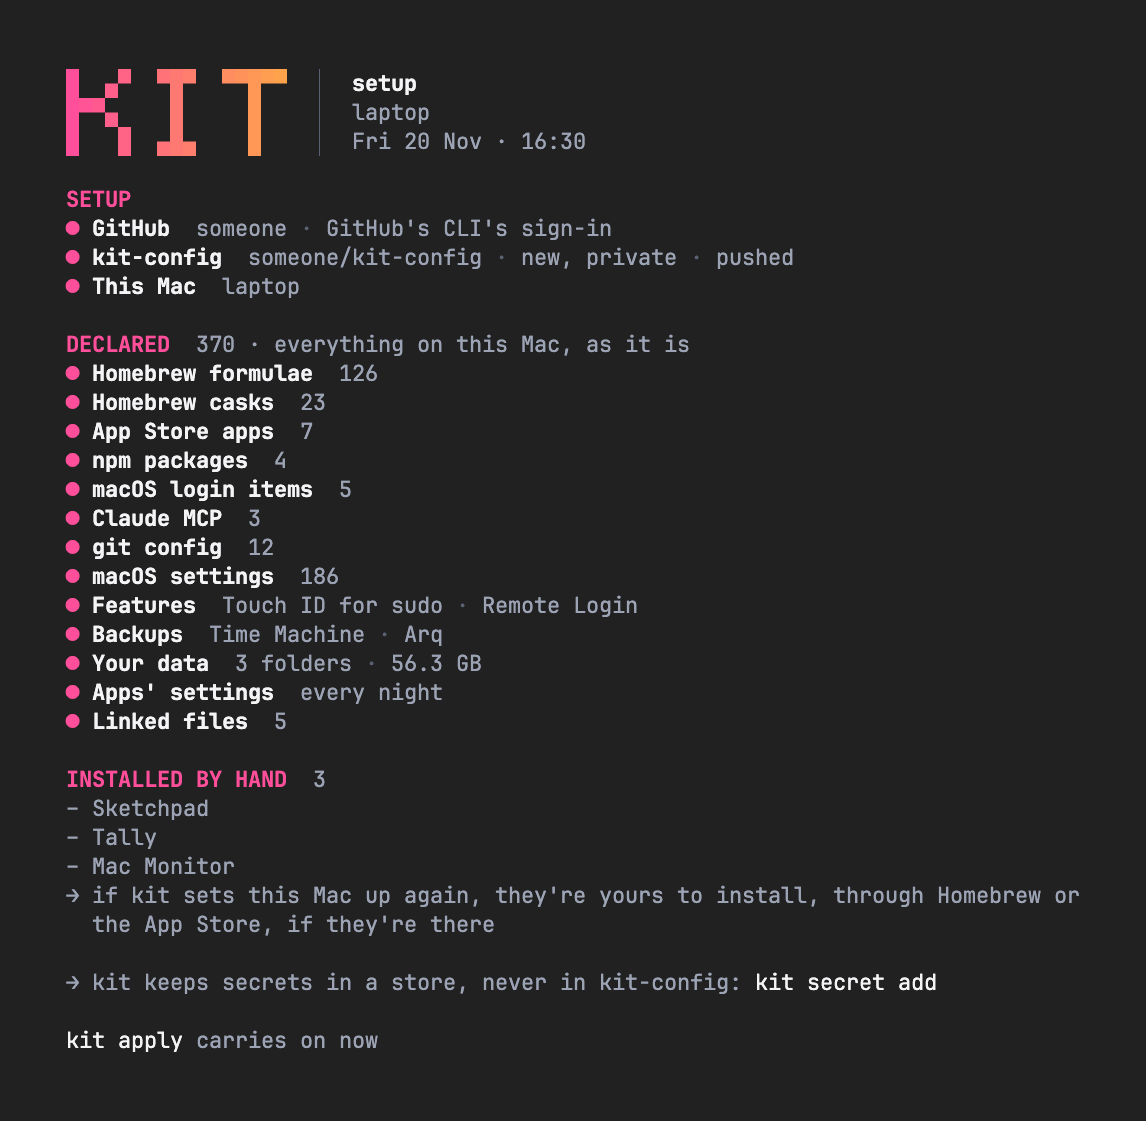
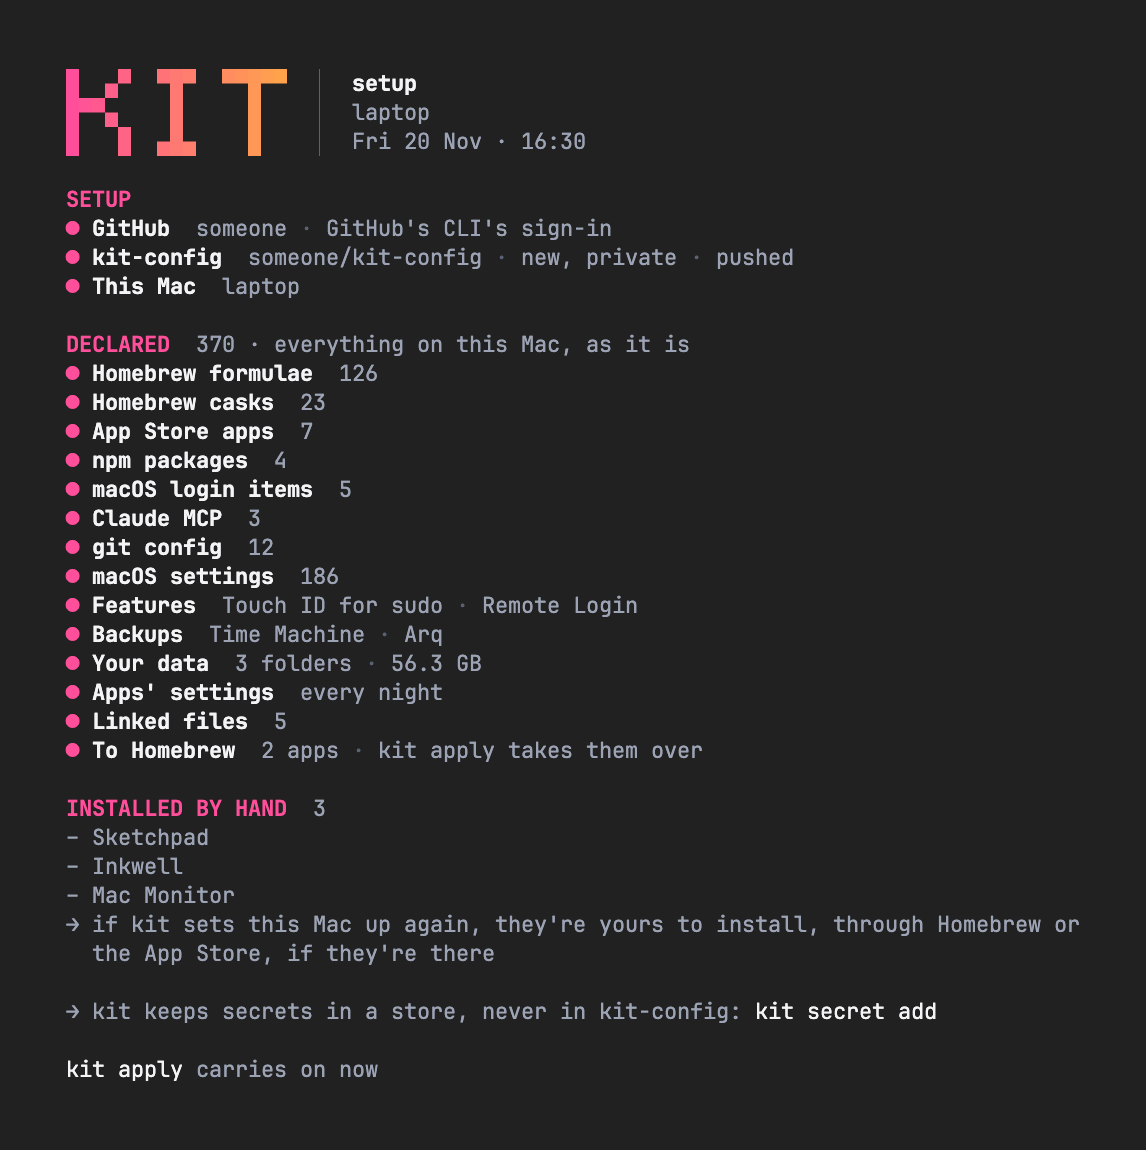
The setup docs and kit agent's guide say which apps Homebrew takes over, and the still shows it
Your first kit-config gains To Homebrew: its row in the questions, --adopt
and --no-adopt, and the apps installed by hand listed being those left so.
The still is drawn again, To Homebrew's row in it. The guide's setup
flags gain --adopt <cask> and --no-adopt, what's offered, and the adopt
and by-hand steps' words; the design's setup synopsis and its question.

diff --git a/docs/first-config.md b/docs/first-config.md
@@ -15,7 +15,7 @@ kit setup
 
 `kit setup` signs you in to GitHub and asks a few questions. It ends on what it declared:
 
-<img src="../art/first-config-done.webp" alt="kit setup's end on a Mac in use: GitHub, kit-config and this Mac done, 370 things declared by part, three apps installed by hand, a note on secrets, and kit apply carrying on" width="573">
+<img src="../art/first-config-done.webp" alt="kit setup's end on a Mac in use: GitHub, kit-config and this Mac done, 370 things declared by part, two apps for Homebrew to take over, three left installed by hand, a note on secrets, and kit apply carrying on" width="573">
 
 On a blank Mac, use the one-line install instead: see [A new Mac from one line](new-mac.md). A
 Mac with a kit-config already is refused, because kit looks after it.
@@ -31,6 +31,7 @@ Each question comes with a suggested answer, so enter takes it. Each has a flag 
 | Your data | Your own folders | `--restore`, `--no-restore` |
 | Apps' settings | Save every night | `--prefs`, `--no-prefs` |
 | Linked files | Every one found | `--link`, `--no-link` |
+| To Homebrew | Every app offered | `--adopt`, `--no-adopt` |
 | What to install (joining) | Install with the rest | `--apply`, `--no-apply` |
 
 - **Your data** lists the folders in your home folder, with their sizes. A new Mac copies the
@@ -39,6 +40,8 @@ Each question comes with a suggested answer, so enter takes it. Each has a flag 
   [Apps' settings](apps-settings.md).
 - **Linked files** lists files such as `~/.zshrc` and `~/.ssh/config`. Each one you keep moves
   into kit-config and is linked back.
+- **To Homebrew** lists apps you installed by hand that a cask installs. Then `kit apply` has
+  Homebrew take over each one you keep. kit leaves the rest, and won't ask again.
 
 ## What happens
 
@@ -48,14 +51,14 @@ file:
 - **Everything installed and not yet declared,** of each kind whose program is here, such as
   Homebrew casks, login items and MCP servers.
 - **The folders those programs need on kit's PATH,** such as `~/.local/bin` for Claude Code.
-  kit adds each to this Mac's `[paths]`, as `kit path add` does, if your shell finds the program
-  there and kit's PATH doesn't.
+  kit adds each to this Mac's `[paths]` if your shell finds the program there and kit's PATH
+  doesn't.
 - **The macOS settings set now,** leaving out the state macOS keeps for itself, and git's global
   settings.
 - **The features on and the backup tools set up,** such as Touch ID for sudo and Time Machine.
 - **Your answers go beside it.** kit commits all of it as one, and pushes it.
-- **Apps installed by hand are listed, never managed.** If kit sets this Mac up again, you
-  install them yourself.
+- **Apps left installed by hand are listed.** They're yours to install if kit sets this Mac up
+  again.
 - **Secrets aren't looked for.** kit keeps a secret in a store, never in kit-config: declare each
   one with `kit secret add`. See [Secrets from 1Password](secrets.md).
 
@@ -94,10 +97,11 @@ or stop to look first with `kit status`.
 | `--restore <path>` | A folder a new Mac brings back |
 | `--prefs` | Save apps' settings every night |
 | `--link <path>` | A file kit-config keeps, linked back |
+| `--adopt <cask>` | A cask that takes over its app |
 | `--no-apply` | Stop after the commit, to look first |
 
-`--restore` and `--link` take one path each time. `--restore`, `--prefs` and `--link` each
-have a `--no-` flag that answers no. Without a terminal, kit asks nothing: a question its flag
+`--restore`, `--link` and `--adopt` take one each time. Each of those and `--prefs` has a
+`--no-` flag that answers no. Without a terminal, kit asks nothing: a question its flag
 doesn't answer stops setup, naming the flag.
 
 ## Related

diff --git a/docs/design.md b/docs/design.md
@@ -611,7 +611,7 @@ kit machine [<name>]         This Mac's name: shown, or set (one of kit.toml's M
 kit machine add <name>       Add a Mac to kit-config, a copy of another's or empty   [--from] [--description]
 kit terminal [<name>]        The terminal a new Mac's boot hands over to: shown, or set in kit.toml   [--none]
 kit nightly at [<time>]      When the nightly run falls due: shown, or set in kit.toml (nightly_at)
-kit setup                    Set up a Mac in use: kit-config made or joined, the Mac declared as it is, then kit apply   [--create|--join] [--mac] [--from] [--restore|--no-restore] [--prefs|--no-prefs] [--link|--no-link] [--apply|--no-apply]
+kit setup                    Set up a Mac in use: kit-config made or joined, the Mac declared as it is, then kit apply   [--create|--join] [--mac] [--from] [--restore|--no-restore] [--prefs|--no-prefs] [--link|--no-link] [--adopt|--no-adopt] [--apply|--no-apply]
 
 What kit manages, a command each:
 kit <kind> add <name>...     Install, and declare for this Mac   [--shared] [--temp] [--note]
@@ -724,7 +724,12 @@ suggested, its flag, and its answer kept in the record: the folders a new Mac br
 the `prefs` feature on, started afresh from this Mac's settings as `kit prefs start-fresh`
 does; asked unless this Mac's own record says capture's on, whatever kit-config declares, as a
 Mac joining as a copy of one saving them has saved nothing), the shell's and tools' files kept (`--link`, as `kit file
-add` moves and links them), and, joining, what kit-config declares that this Mac hasn't:
+add` moves and links them), the apps installed by hand Homebrew takes over (`--adopt <cask>`,
+To Homebrew: a row a cask of those that install them, as `brew.Homebrew` matches them, its apps
+named and the cask only when its name says more, all ticked, a cask the Mac declares already
+never offered; the ticked declared with the snapshot, so the `kit apply` after setup takes their
+apps over, the rest left by hand for good in drift.json, `kit reconcile` never asking of them),
+and, joining, what kit-config declares that this Mac hasn't:
 installed with the rest (`--apply`) or setup stopping to look first (`--no-apply`); a kind
 whose check couldn't tell is asked about too, saying so and why, never taken for nothing to
 install; kit-config started on this Mac has nothing to install, its step saying so. Then,
@@ -737,8 +742,8 @@ isn't, links only what isn't, commits nothing new and pushes what's waiting, to 
 repository as one, its branch made by the push; what's waiting that can't be told is never
 taken for nothing. Till kit-config's own branch is on the remote, the prefs store pushes
 nothing, as GitHub makes a new repository's first branch pushed the one a new Mac's boot
-clones. It says what's refused and what couldn't be checked, each with why, the apps installed by hand
-(never Apple's, the App Store's, a cask's or those Chrome makes for websites, `com.google.Chrome.app.`;
+clones. It says what's refused and what couldn't be checked, each with why, the apps left installed by hand
+(none a cask takes over, never Apple's, the App Store's, a cask's or those Chrome makes for websites, `com.google.Chrome.app.`;
 the person's to install through Homebrew or the App Store should kit set the Mac up again),
 and that secrets go in a store with `kit secret add`; then `kit apply` runs in the same
 process, with its own screen at a terminal. Without a terminal it asks nothing: each question

diff --git a/internal/guide/text/in-use.md b/internal/guide/text/in-use.md
@@ -26,13 +26,22 @@ Every question has its flag; without a terminal kit setup asks nothing.
 | Folders a new Mac brings back | `--restore <path>`..., `--no-restore` |
 | Apps' settings saved nightly | `--prefs`, `--no-prefs` |
 | Files kit-config keeps, linked | `--link <path>`..., `--no-link` |
+| Apps Homebrew takes over | `--adopt <cask>`..., `--no-adopt` |
 | Joining: install what it declares | `--apply`, `--no-apply` |
 
 - `--create` makes a private repository on the person's account; suggest
   `kit-config`. `--join` refuses a repository that isn't private.
 - Joining, `--mac` is one of kit.toml's Macs, or a new one's name; a new
   one starts empty, or as a copy of another with `--from`.
-- `--restore` and `--link` take a path each time they're given.
+- `--restore` and `--link` take a path each time they're given, `--adopt`
+  a cask.
+- The apps Homebrew can take over are the apps installed by hand that one
+  of Homebrew's own casks installs, the cask naming the app's bundle id;
+  setup's failing step names each cask and its apps, all suggested. A
+  cask kit-config declares already isn't offered. Each given is declared
+  in this Mac's file, and the `kit apply` after setup takes its app over,
+  which may replace it (see `kit agent packages`). The rest are left by
+  hand for good: `kit reconcile` won't ask about them.
 - `--no-apply` stops once setup has committed, for the person to look
   first; `kit apply` then installs the rest.
 
@@ -77,8 +86,11 @@ Read the document's steps, then tell them:
   setup ran with, so kit's later runs find it too.
 - `commit`'s items: lines refused, and lines declared as they are because
   kit couldn't check whether they need a secret, each with why.
-- `by-hand`: the apps installed by hand. kit doesn't look after them: if
-  kit ever sets the Mac up again, they're the person's to install, and
-  Homebrew or the App Store is the way to.
+- `adopt`: how many apps Homebrew takes over, in the `kit apply` that
+  follows.
+- `by-hand`: the apps left installed by hand, those no cask installs and
+  those the person kept. kit doesn't look after them: if kit ever sets the
+  Mac up again, they're the person's to install, and Homebrew or the App
+  Store is the way to.
 - `secrets`: kit keeps secrets in a store, never in kit-config. Point them
   at `kit secret add`. Never search their files for secrets.
